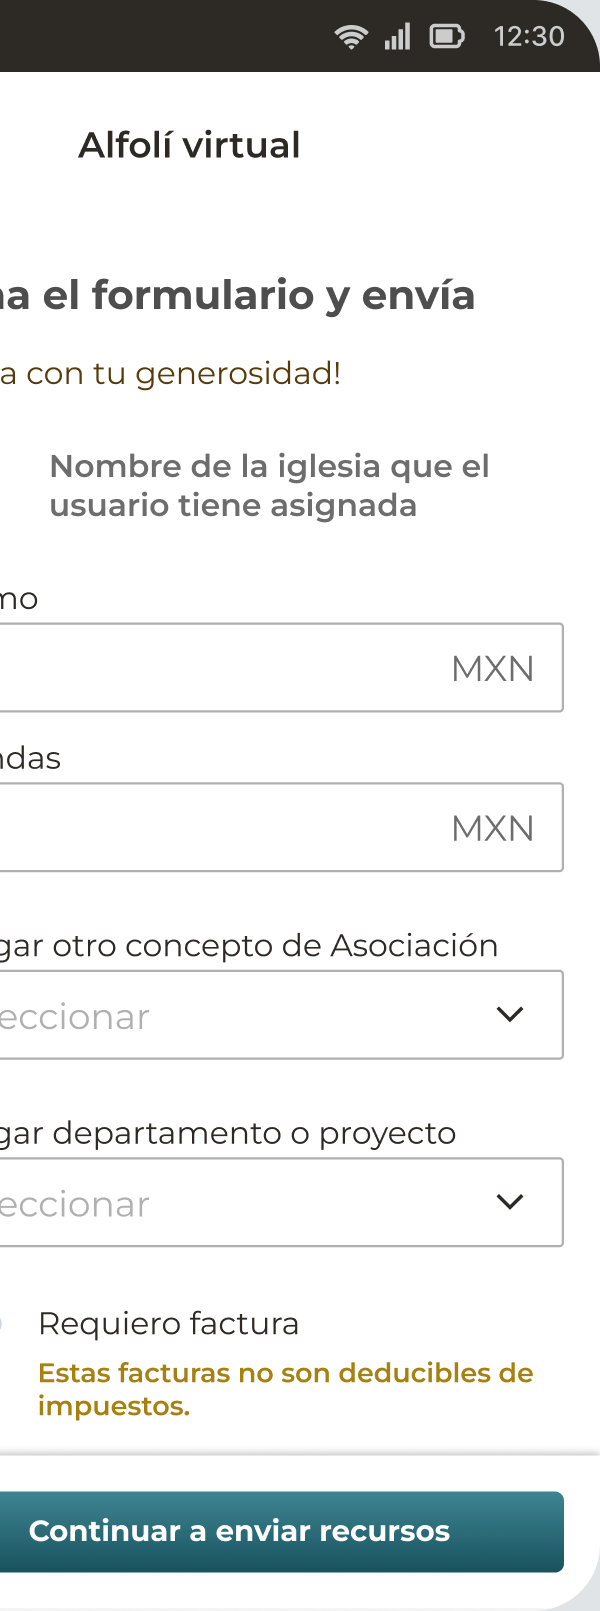
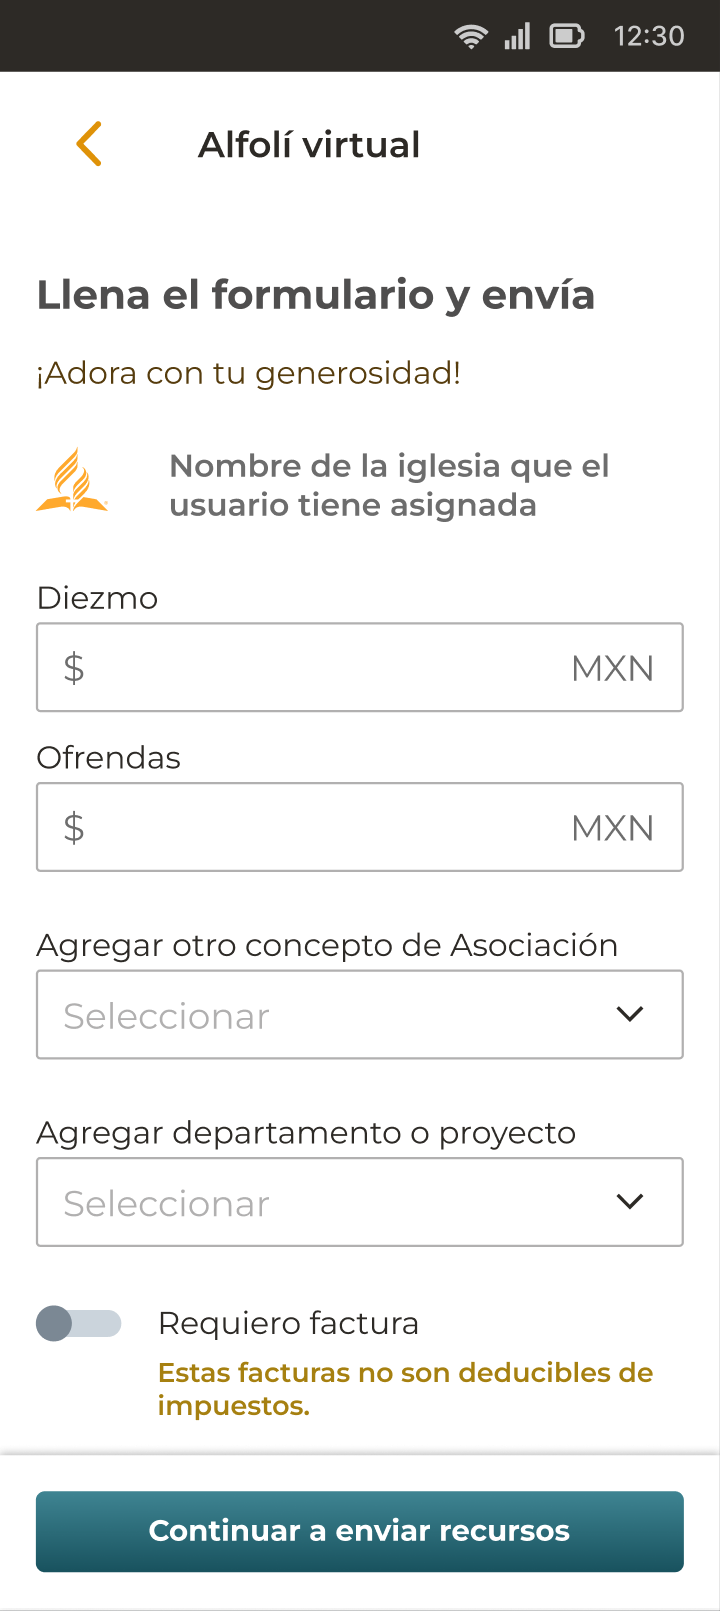
Refine Mi Fidelidad case study presentation

diff --git a/src/MiFidelidadCase.css b/src/MiFidelidadCase.css
@@ -4,7 +4,6 @@
    stays deep aqua; warmth comes from surfaces, never from gradient text. */
 
 .cs-page {
-  --mf-aqua-deep: #123f47;
   --mf-aqua: #316e7a;
   --mf-butter: #eac37d;
   --mf-screen-shadow: 0 24px 48px rgba(18, 63, 71, 0.13), 0 2px 6px rgba(18, 63, 71, 0.06);
@@ -81,43 +80,37 @@
 .mf-approach-phone img { width: 100%; height: 100%; object-fit: cover; object-position: top; }
 
 /* ── Research ── */
+/* The shared QuoteCard, on the case's own butter → pale-aqua tint instead of an outline.
+   The quote is supporting evidence, so it takes the Body style (.cs-body: 16/26, regular,
+   primary text) instead of the quote scale. The card hugs its content: 48px above and
+   below (the portfolio's 48px rhythm step), the shared card's 40px at the sides. */
 .mf-pullquote {
-  border: 0;
+  border-color: transparent;
   background: linear-gradient(var(--cs-tint-angle), var(--cs-tint-from) 0%, var(--cs-tint-to) 100%);
-  gap: 20px;
+  padding-top: 48px;
+  padding-bottom: 48px;
 }
-.mf-pullquote .cs-quote-text { font-size: 22px; line-height: 34px; color: var(--mf-aqua-deep); }
+.mf-pullquote .cs-quote-text { font-size: 16px; line-height: 26px; font-weight: 400; color: var(--cs-text-primary); }
 .mf-findings { align-items: stretch; }
 .mf-findings .cs-insight { gap: 12px; }
 .mf-findings .cs-insight-body { flex: 1 0 auto; }
 
-/* ── Strategy: ledger of finding → principle → UI consequence ── */
+/* ── Strategy: principle → finding / evaluation → UI decision ──
+   No table header: each value has a small label above it, like the My role metadata
+   (label cs-body-muted, 4px to its value). Rows are separated by quiet horizontal rules. */
 .mf-strategy-intro { max-width: 600px; }
-.mf-ledger-head,
+.mf-ledger { list-style: none; }
 .mf-ledger-row {
   display: grid;
   grid-template-columns: minmax(0, 300fr) minmax(0, 270fr) minmax(0, 330fr);
   column-gap: 40px;
+  padding: 32px 0;
+  border-top: 1px solid var(--cs-divider);
 }
-.mf-ledger-head {
-  padding-bottom: 16px;
-  font-size: 12px;
-  line-height: 16px;
-  font-weight: 600;
-  letter-spacing: 0.08em;
-  text-transform: uppercase;
-  color: #a1a1a6;
-}
-.mf-ledger-rows { list-style: none; }
-.mf-ledger-row { padding: 32px 0; border-top: 1px solid var(--cs-divider); }
 .mf-ledger-row:last-child { border-bottom: 1px solid var(--cs-divider); }
-.mf-ledger-cell { display: flex; flex-direction: column; gap: 6px; min-width: 0; }
-/* Design evaluation reads differently from research on purpose */
-.mf-origin-eval { font-size: 11px; line-height: 16px; font-weight: 600; letter-spacing: 0.08em; text-transform: uppercase; color: #8a6a2a; }
-/* Principle leads each row */
-.mf-ledger-principle { gap: 8px; }
-.mf-ledger-principle .cs-subtitle { color: var(--cs-text); }
-.mf-ledger-label { display: none; }
+.mf-ledger-cell { display: flex; flex-direction: column; gap: 4px; min-width: 0; }
+/* Labels: secondary text (.cs-body-muted). Content: Primary Text, like the My role value */
+.mf-ledger-cell .cs-subtitle, .mf-ledger-cell .cs-body { color: var(--cs-text-primary); }
 
 /* ── Before & After: framed phones ── */
 /* Media hugs its phones so "Before" and "After" start on the same line */
@@ -136,13 +129,14 @@
 .mf-phone img { width: 100%; height: 100%; object-fit: cover; object-position: top; }
 /* The second screen sits a little lower so each pair reads as one composition */
 .mf-phones > :nth-child(2) { margin-top: 32px; }
-/* The original form is clipped in the source file; keep its right edge and top, at the
-   same screen aspect as the redesigned form it is compared with */
-.mf-phone-clipped { aspect-ratio: 720 / 1446; }
-.mf-phone-clipped img { object-position: right top; }
-/* Both donation cards reserve the pair's height (screen + the second phone's 32px offset) so the labels align */
+/* The original donation form is shown whole: the aspect ratio applies to the area inside
+   the 4px border (content-box, 142px + border = the same 150px outer width), so it matches
+   the image exactly, and contain keeps every edge of the UI visible */
+.mf-phone.mf-phone-complete { box-sizing: content-box; width: 142px; }
+.mf-phone-complete img { object-fit: contain; object-position: center; }
+/* Both donation cards reserve the taller media (the full original form, 720×1611) so the labels align */
 @media (min-width: 721px) {
-  #ba-donation .cs-ba-media { min-height: calc(150px * 1446 / 720 + 32px); justify-content: flex-start; }
+  #ba-donation .cs-ba-media { min-height: calc(150px * 1611 / 720); justify-content: flex-start; }
 }
 .mf-phones-flow .mf-phone { aspect-ratio: 720 / 1446; }
 
@@ -167,9 +161,7 @@
 }
 
 @media (max-width: 860px) {
-  .mf-ledger-head { display: none; }
-  .mf-ledger-row { grid-template-columns: 1fr; row-gap: 16px; padding: 28px 0; }
-  .mf-ledger-label { display: block; font-size: 13px; line-height: 20px; font-weight: 600; color: var(--cs-text-secondary); }
+  .mf-ledger-row { grid-template-columns: 1fr; row-gap: 20px; padding: 28px 0; }
   .cs-takeaway.mf-impact { grid-template-columns: 1fr; padding: 40px 32px 0; }
   .mf-impact .cs-takeaway-body { padding-bottom: 32px; }
   .mf-impact .cs-takeaway-aside { min-height: 320px; }
@@ -195,10 +187,15 @@
   .mf-approach-pair[data-raised='1'] > :nth-child(1) { margin-top: 44px; }
   .mf-hero-art img { object-position: 53% 45%; }
   .cs-hero:has(.mf-hero-art) .cs-hero-title { font-size: 28px; line-height: 36px; }
-  .mf-context-stats { gap: 12px; }
-  .mf-context-value { font-size: 40px; line-height: 48px; }
-  .mf-pullquote .cs-quote-text { font-size: 19px; line-height: 30px; }
+  /* Stats stack full width so their copy wraps naturally; values drop to the portfolio's
+     24px stat scale (.cs-stat-value: 24/32, 600) and cards hug their content */
+  .mf-context-stats { grid-template-columns: 1fr; gap: 12px; }
+  .mf-context-stat { gap: 4px; }
+  .mf-context-value { font-size: 24px; line-height: 32px; letter-spacing: 0; }
+  /* Same step down as body copy inside cards on mobile (.cs-card .cs-body) */
+  .mf-pullquote .cs-quote-text { font-size: 15px; line-height: 24px; }
   .mf-phone { width: 132px; }
+  .mf-phone.mf-phone-complete { width: 124px; }
   .mf-phones { gap: 12px; }
   .mf-phones > :nth-child(2) { margin-top: 24px; }
   .cs-takeaway.mf-impact { padding: 32px 24px 0; }

diff --git a/src/MiFidelidadCase.tsx b/src/MiFidelidadCase.tsx
@@ -36,11 +36,16 @@ const theme: CaseStudyTheme = {
   heroBackground: 'radial-gradient(60% 70% at 18% 0%, #fbeccb 0%, rgba(251, 236, 203, 0) 70%), radial-gradient(55% 65% at 88% 12%, #d5ecf1 0%, rgba(213, 236, 241, 0) 70%), linear-gradient(180deg, #fdfaf3 0%, #fbfcfc 62%, #fff 100%)',
 }
 
-// Approach accent panels (Figma 129:33239, 129:33272, 129:33307): pale aqua, aqua → butter, butter
+// Design Approach accent panels: one continuous progression down the section, built from the
+// two colors of the Figma accents (129:33272): aqua rgb(92, 205, 238) and butter rgb(255, 219, 153),
+// at low opacity on white. Each panel ends on the exact tint the next one starts with:
+// aqua → aqua · white · butter → butter.
+const aqua = (a: number) => `rgba(92, 205, 238, ${a})`
+const butter = (a: number) => `rgba(255, 219, 153, ${a})`
 const approachAccents = {
-  church: 'linear-gradient(61deg, rgb(222, 244, 251) 0.86%, rgb(255, 255, 255) 95.98%)',
-  tithe: 'linear-gradient(136deg, rgba(92, 205, 238, 0.2) 10.97%, rgba(255, 255, 255, 0.2) 37.76%, rgba(255, 219, 153, 0.2) 89.97%), #fff',
-  history: 'linear-gradient(124deg, rgb(255, 248, 234) 0%, rgb(255, 252, 245) 100%)',
+  church: `linear-gradient(180deg, ${aqua(0.24)} 0%, ${aqua(0.14)} 100%), #fff`,
+  tithe: `linear-gradient(180deg, ${aqua(0.14)} 0%, rgba(255, 255, 255, 0) 50%, ${butter(0.18)} 100%), #fff`,
+  history: `linear-gradient(180deg, ${butter(0.18)} 0%, ${butter(0.3)} 100%), #fff`,
 }
 
 // Side navigation — ids must match the anchors below
@@ -160,33 +165,25 @@ const principles: Principle[] = [
 /** The principle → the finding behind it → what it visibly changed in the UI */
 function PrincipleLedger() {
   return (
-    <div className="mf-ledger">
-      <div className="mf-ledger-head" aria-hidden>
-        <span>Principle</span>
-        <span>Research finding</span>
-        <span>What it changed in the UI</span>
-      </div>
-      <Reveal as="ol" className="mf-ledger-rows" selector=".mf-ledger-row" stagger={90}>
-        {principles.map(p => (
-          <li key={p.title} className="mf-ledger-row">
-            <div className="mf-ledger-cell mf-ledger-principle">
-              <h3 className="cs-subtitle">{p.title}</h3>
-            </div>
-            <div className="mf-ledger-cell mf-ledger-source">
-              {/* The column says "Research finding"; only the exception is labelled in the row */}
-              {p.origin === 'Design evaluation'
-                ? <p className="mf-origin-eval">Design evaluation</p>
-                : <p className="mf-ledger-label">Research finding</p>}
-              <p className="cs-body">{p.source}</p>
-            </div>
-            <div className="mf-ledger-cell mf-ledger-ui">
-              <p className="mf-ledger-label">What it changed in the UI</p>
-              <p className="cs-body">{p.consequence}</p>
-            </div>
-          </li>
-        ))}
-      </Reveal>
-    </div>
+    <Reveal as="ol" className="mf-ledger" selector=".mf-ledger-row" stagger={90}>
+      {principles.map(p => (
+        // Each value carries its own label, in the same treatment as the My role metadata
+        <li key={p.title} className="mf-ledger-row">
+          <div className="mf-ledger-cell">
+            <p className="cs-body-muted">Principle</p>
+            <h3 className="cs-subtitle">{p.title}</h3>
+          </div>
+          <div className="mf-ledger-cell">
+            <p className="cs-body-muted">{p.origin}</p>
+            <p className="cs-body">{p.source}</p>
+          </div>
+          <div className="mf-ledger-cell">
+            <p className="cs-body-muted">UI decision</p>
+            <p className="cs-body">{p.consequence}</p>
+          </div>
+        </li>
+      ))}
+    </Reveal>
   )
 }
 
@@ -336,9 +333,7 @@ export default function MiFidelidadCase() {
           {/* The one verbatim interview quote (Figma 123:40955) */}
           <QuoteCard
             className="mf-pullquote"
-            mark={false}
-            quote="“Yes, through an app, it would be easier… although I'd feel insecure about the payments being processed correctly.”"
-            attribution="Interview participant"
+            quote="Yes, through an app, it would be easier… although I'd feel insecure about the payments being processed correctly.”"
           />
         </SplitContent>
 
@@ -410,15 +405,14 @@ export default function MiFidelidadCase() {
             before={{
               // Figma 123:41278 (initial design)
               media: <Phones items={[
-                { src: `${A}/donation-before.png`, alt: 'Original donation form: amount fields for tithe and offerings, extra concept and project selectors, and an invoice checkbox', className: 'mf-phone-clipped' },
+                { src: `${A}/donation-before.png`, alt: 'Original donation form: amount fields for tithe and offerings, extra concept and project selectors, and an invoice checkbox', className: 'mf-phone-complete' },
               ]} />,
               text: 'The original donation form: amount fields with no running total.',
             }}
             after={{
               media: <Phones className="mf-phones-flow" items={[
                 screens.donation,
-                // Presentation size only (placeholder amounts), so no lightbox
-                { ...screens.receipt, inspect: false },
+                screens.receipt,
               ]} />,
               text: 'Clearer category amounts, a running total before sending and an itemized receipt after.',
             }}

diff --git a/src/case-study/components.tsx b/src/case-study/components.tsx
@@ -241,19 +241,15 @@ export function MetricCard({ value, label, detail }: { value: string; label: str
   )
 }
 
-/**
- * Participant quote, optionally with a quiet attribution line. The mark opens the quote;
- * with `mark={false}` the card is text-led and the quote carries its own quotation marks.
- */
-export function QuoteCard({ quote, attribution, mark = true, className }: {
+/** Participant quote, optionally with a quiet attribution line. The mark opens the quote. */
+export function QuoteCard({ quote, attribution, className }: {
   quote: string
   attribution?: string
-  mark?: boolean
   className?: string
 }) {
   return (
     <figure className={cx('cs-card cs-card-outline cs-quote', className)}>
-      {mark && <GradientText as="span" angle={140} className="cs-quote-mark">“</GradientText>}
+      <GradientText as="span" angle={140} className="cs-quote-mark">“</GradientText>
       <blockquote className="cs-quote-text">{quote}</blockquote>
       {attribution && <figcaption className="cs-body-muted">{attribution}</figcaption>}
     </figure>
